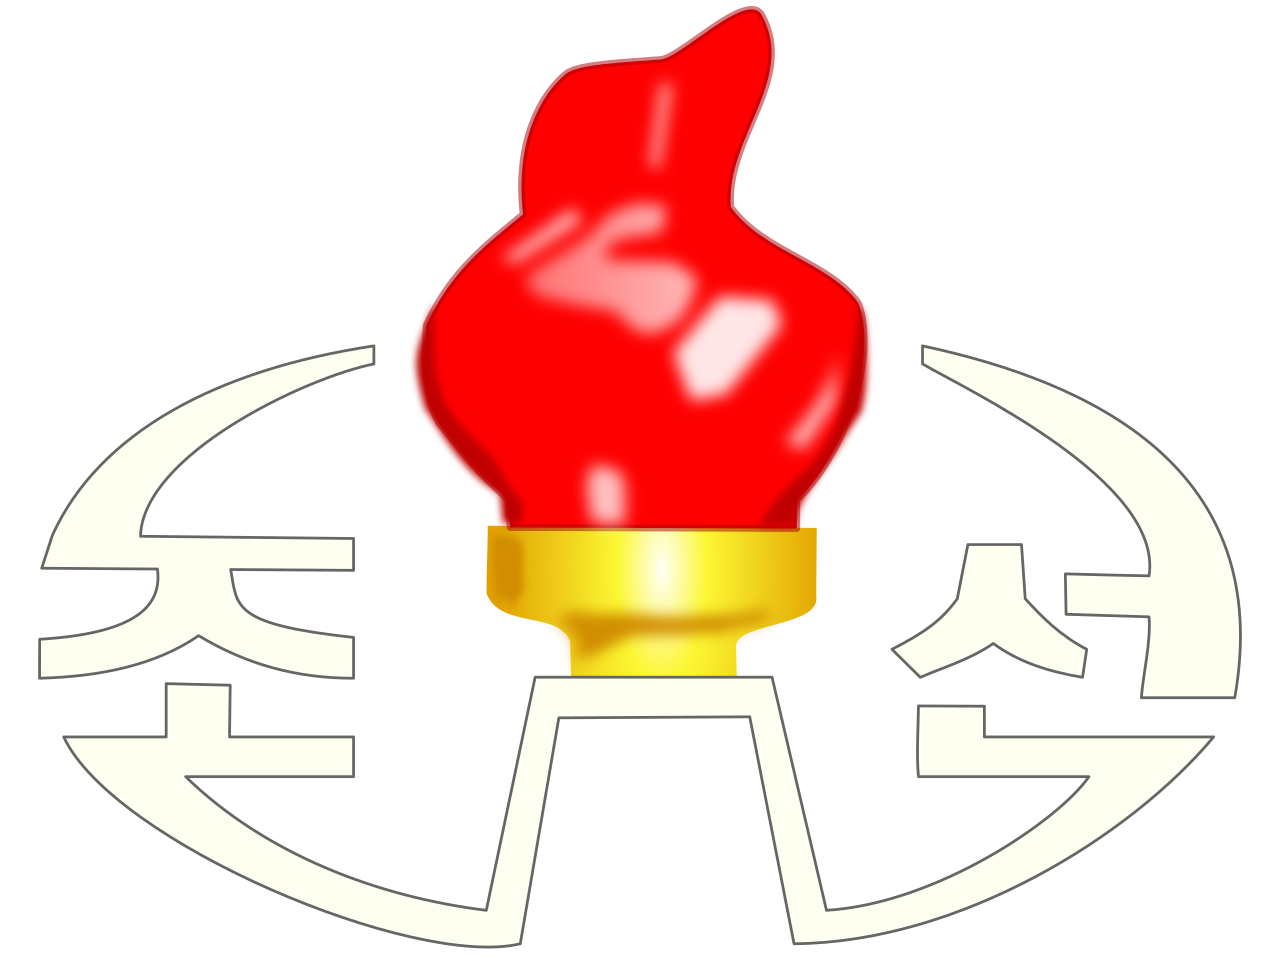
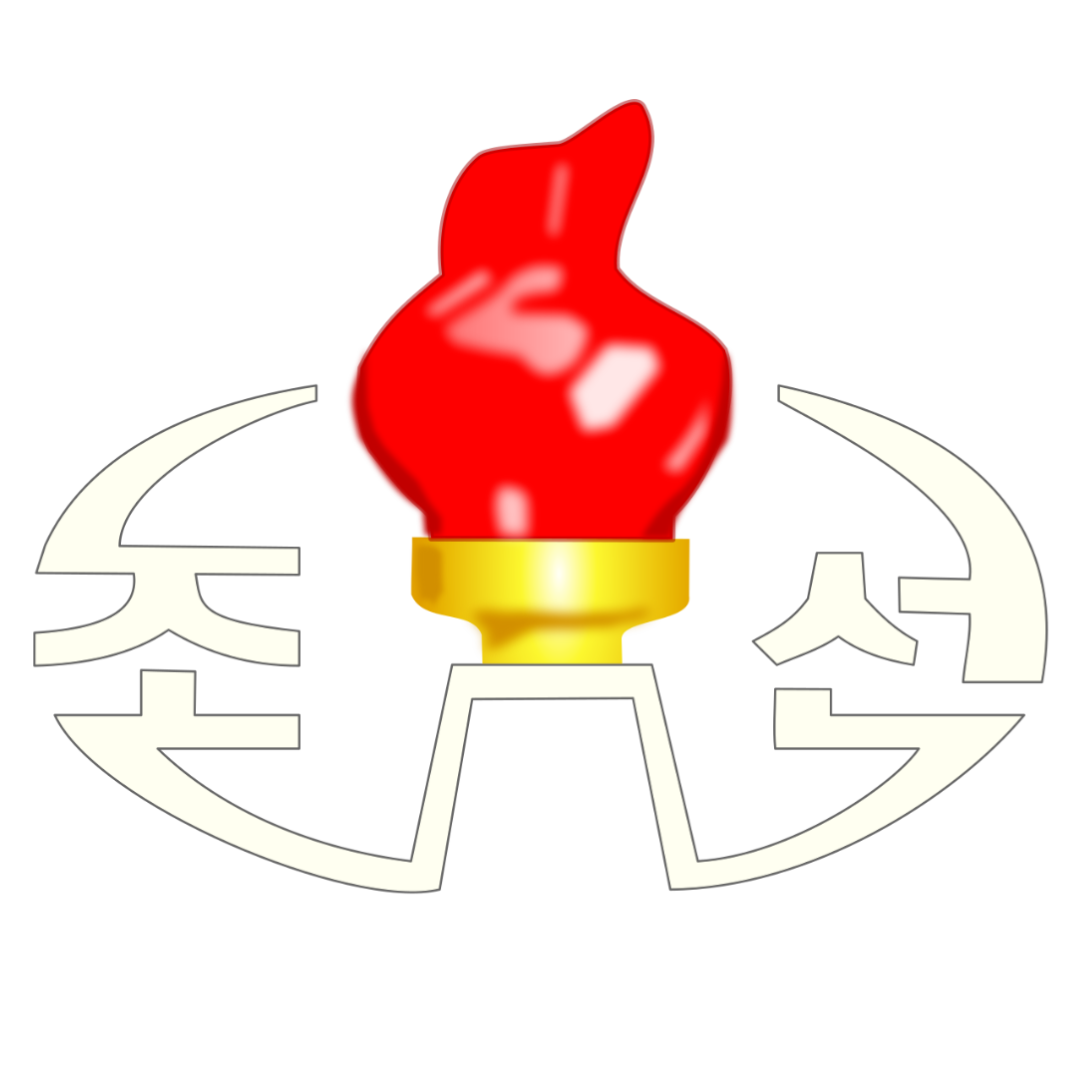
Add report prefix and query for filtering results; update VOD label

diff --git a/default.py b/default.py
@@ -21,6 +21,9 @@ PARAMS = dict(parse_qsl(sys.argv[2][1:]))
 LIVE_PROXY_SERVER = None
 LIVE_PROXY_LOCK = threading.Lock()
 
+REPORT_PREFIX = 'Korean Central Television 8 PM Report'
+REPORT_QUERY  = REPORT_PREFIX
+
 class LiveProxyRequestHandler(BaseHTTPRequestHandler):
     def log_message(self, format, *args):
         return
@@ -141,7 +144,7 @@ def set_video_info(li, title='', plot='', duration=0, date=''):
 def main_menu():
     entries = [
         {
-            'label':    'Video On Demand',
+            'label':    'VOD',
             'icon':     utils.play_icon(),
             'params':   {'action': 'listing', 'page': 1, 'ordering': '-add_date'},
             'isFolder': True,
@@ -350,8 +353,6 @@ def report(page=1):
     dialog.close()
 
     if data and 'results' in data:
-        REPORT_PREFIX = 'Korean Central Television 8 PM Report'
-        REPORT_QUERY  = REPORT_PREFIX
         data['results'] = [i for i in data['results'] if i.get('title', '').startswith(REPORT_PREFIX)]
 
     prev_params = None